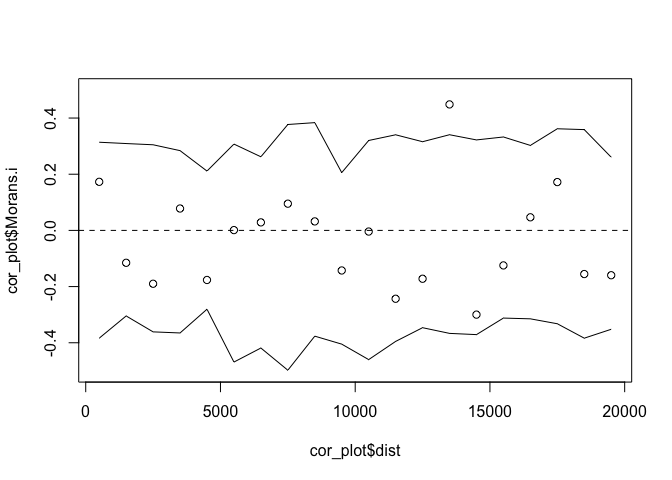
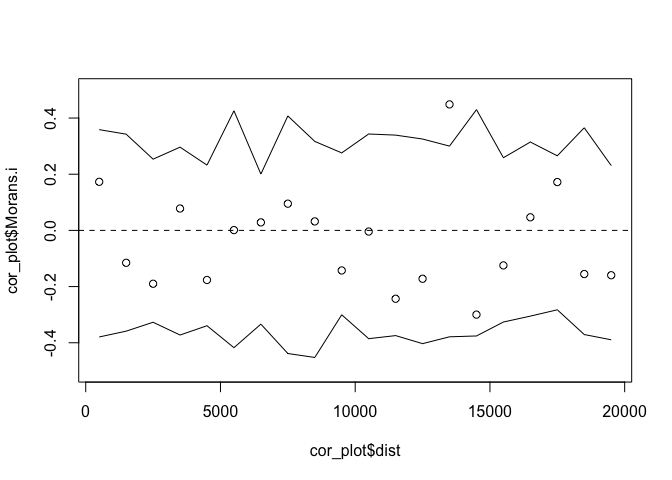
updated figures and model comparision

diff --git a/tick_abundance.md b/tick_abundance.md
@@ -1144,6 +1144,38 @@ stargazer(nb.glm12, nb.glm12.screen, type = "text",
     ## ==================================================
     ## Note:                  *p<0.1; **p<0.05; ***p<0.01
 
+``` r
+stargazer(nb.glm0.screen, nb.glm2.screen, nb.glm11.screen, nb.glm12.screen, type = "text",
+          intercept.bottom = FALSE, 
+          single.row=FALSE,     
+          notes.append = FALSE, 
+          header=FALSE)
+```
+
+    ## 
+    ## ===================================================================================
+    ##                                          Dependent variable:                       
+    ##                   -----------------------------------------------------------------
+    ##                                                 total                              
+    ##                         (1)              (2)              (3)             (4)      
+    ## -----------------------------------------------------------------------------------
+    ## Constant              4.355***         2.575***        2.598***        1.868***    
+    ##                       (0.439)          (0.524)          (0.278)         (0.315)    
+    ##                                                                                    
+    ## Field_TypeNatural                      2.386***                        1.240***    
+    ##                                        (0.735)                          (0.413)    
+    ##                                                                                    
+    ## PC1_500m                                               1.100***        1.003***    
+    ##                                                         (0.158)         (0.131)    
+    ##                                                                                    
+    ## -----------------------------------------------------------------------------------
+    ## Observations             16               16              16              16       
+    ## Log Likelihood        -78.218          -74.603          -67.348         -64.324    
+    ## theta             0.325*** (0.102) 0.472*** (0.157) 1.143** (0.447) 1.882** (0.828)
+    ## Akaike Inf. Crit.     158.437          153.206          138.696         134.648    
+    ## ===================================================================================
+    ## Note:                                                   *p<0.1; **p<0.05; ***p<0.01
+
 pseudo r-squared of screened model
 
 ``` r
@@ -1165,7 +1197,7 @@ par(mfrow=c(2,2), mar=c(4,4,2,1))
 plot(nb.glm12.screen)
 ```
 
-![](tick_abundance_files/figure-gfm/unnamed-chunk-34-1.png)<!-- --> the
+![](tick_abundance_files/figure-gfm/unnamed-chunk-35-1.png)<!-- --> the
 screened model looks good!
 
 ### plot the top model for *Amblyomma americanum* (screened dataset)
@@ -1208,7 +1240,7 @@ grid.arrange(plot, plot.log, ncol = 2)
 
     ## Warning: Transformation introduced infinite values in continuous y-axis
 
-![](tick_abundance_files/figure-gfm/unnamed-chunk-35-1.png)<!-- -->
+![](tick_abundance_files/figure-gfm/unnamed-chunk-36-1.png)<!-- -->
 
 ### create a final plot for *A.americanum* (screened data)
 
@@ -1291,13 +1323,15 @@ plot it - FIGURE FOR PUBLICATIONS
 ``` r
 mycol <- viridisLite::viridis(3)
 
-aa.plt <- ggplot(aa_screen, aes(x = PC1_500m, y = total)) +
-  geom_point(aes(color=Field_Type), size = 4) + 
-  scale_color_manual(values = mycol, name = "Habitat Type", labels = c("manicured", "natural")) +
+aa.plt <- ggplot(aa_screen, aes(x = PC1_500m, y = total, group = Field_Type)) +
+  geom_point(aes(fill=Field_Type), cex = 4, alpha = 0.7, 
+             color = "black", pch = 21) + 
+  scale_fill_manual(values = mycol, name = "Habitat Type", labels = c("manicured", "natural")) +
   geom_line(data = ndata, size =2, aes(color=Field_Type)) + 
   geom_ribbon(data = ndata,
-                  aes(ymin = right_lwr, ymax = right_upr, color=Field_Type),
-                  alpha = 0.1) + 
+                  aes(ymin = right_lwr, ymax = right_upr, fill=Field_Type),
+                  alpha = 0.2) +
+  scale_color_manual(values = mycol, name = "Habitat Type", labels = c("manicured", "natural")) +
   theme_bw() +
   theme(panel.grid.major=element_blank(),
                     panel.grid.minor=element_blank(),
@@ -1306,16 +1340,20 @@ aa.plt <- ggplot(aa_screen, aes(x = PC1_500m, y = total)) +
   ylab("A. americanum abundance") +
   xlab("Development Gradient")
 
+#aa.plt
+
 #remove the two sites with zeros so that they do not make the plot look funny on the log axis 
 aa_screen2 <- aa_screen[-c(1,2),]
 
-aa.plt.log <- ggplot(aa_screen2, aes(x = PC1_500m, y = total)) +
-  geom_point(aes(color=Field_Type), size = 4) +
-  scale_color_manual(values = mycol) + 
+aa.plt.log <- ggplot(aa_screen2, aes(x = PC1_500m, y = total, group = Field_Type)) +
+  geom_point(aes(fill=Field_Type), cex = 4, alpha = 0.7, 
+             color = "black", pch = 21) +
+  scale_fill_manual(values = mycol, name = "Habitat Type", labels = c("manicured", "natural")) + 
   geom_line(data = ndata, size =2, aes(color=Field_Type)) + 
   geom_ribbon(data = ndata,
-                  aes(ymin = right_lwr, ymax = right_upr, color=Field_Type),
-                  alpha = 0.1)+ 
+                  aes(ymin = right_lwr, ymax = right_upr, fill=Field_Type),
+                  alpha = 0.2)+ 
+    scale_color_manual(values = mycol, name = "Habitat Type", labels = c("manicured", "natural")) +
   theme_bw() +
   theme(legend.position = "none") +
   theme(panel.grid.major=element_blank(),
@@ -1327,7 +1365,7 @@ aa.plt.log <- ggplot(aa_screen2, aes(x = PC1_500m, y = total)) +
 grid.arrange(aa.plt, aa.plt.log, ncol = 2)
 ```
 
-![](tick_abundance_files/figure-gfm/unnamed-chunk-37-1.png)<!-- -->
+![](tick_abundance_files/figure-gfm/A_americanum_fig-1.png)<!-- -->
 
 # Part 5: Landscape analyses of *Ixodes scapularis*
 
@@ -1745,9 +1783,9 @@ round(head(cor_plot ,3),2)
 ```
 
     ##   dist Morans.i null.lcl null.ucl
-    ## 1  500     0.17    -0.38     0.31
-    ## 2 1500    -0.12    -0.30     0.31
-    ## 3 2500    -0.19    -0.36     0.30
+    ## 1  500     0.17    -0.38     0.36
+    ## 2 1500    -0.12    -0.36     0.34
+    ## 3 2500    -0.19    -0.33     0.25
 
 ``` r
 #plot correlogram
@@ -1929,6 +1967,38 @@ stargazer(nb.glm8.reduced, nb.glm9.reduced, type = "text",
     ## =================================================
     ## Note:                 *p<0.1; **p<0.05; ***p<0.01
 
+``` r
+stargazer(nb.glm0.reduced, nb.glm1.reduced, nb.glm8.reduced, nb.glm9.reduced, type = "text",
+          intercept.bottom = FALSE, 
+          single.row=FALSE,     
+          notes.append = FALSE, 
+          header=FALSE)
+```
+
+    ## 
+    ## =================================================================================
+    ##                                         Dependent variable:                      
+    ##                   ---------------------------------------------------------------
+    ##                                                total                             
+    ##                         (1)             (2)             (3)             (4)      
+    ## ---------------------------------------------------------------------------------
+    ## Constant             1.633***          0.000           0.361          -0.765     
+    ##                       (0.469)         (0.646)         (0.483)         (0.628)    
+    ##                                                                                  
+    ## Field_TypeNatural                    2.172***                         1.721**    
+    ##                                       (0.831)                         (0.716)    
+    ##                                                                                  
+    ## PC1_500m                                             0.908***        0.825***    
+    ##                                                       (0.284)         (0.248)    
+    ##                                                                                  
+    ## ---------------------------------------------------------------------------------
+    ## Observations            17              17              17              17       
+    ## Log Likelihood        -41.750         -39.230         -37.565         -35.024    
+    ## theta             0.282** (0.115) 0.427** (0.192) 0.570** (0.272) 0.846** (0.429)
+    ## Akaike Inf. Crit.     85.500          82.459          79.131          76.048     
+    ## =================================================================================
+    ## Note:                                                 *p<0.1; **p<0.05; ***p<0.01
+
 ### plot model residuals for top model (screened datset)
 
 ``` r
@@ -1936,7 +2006,7 @@ par(mfrow=c(2,2), mar=c(4,4,2,1))
 plot(nb.glm9.reduced)
 ```
 
-![](tick_abundance_files/figure-gfm/unnamed-chunk-54-1.png)<!-- --> the
+![](tick_abundance_files/figure-gfm/unnamed-chunk-55-1.png)<!-- --> the
 reduced model for PC1_500m is looking pretty good
 
 ### test for spatial autocorrelation (screened dataset)
@@ -2031,9 +2101,9 @@ round(head(cor_plot ,3),2)
 ```
 
     ##   dist Morans.i null.lcl null.ucl
-    ## 1  500     0.07    -0.32     0.27
-    ## 2 1500    -0.14    -0.29     0.32
-    ## 3 2500    -0.06    -0.30     0.32
+    ## 1  500     0.07    -0.34     0.29
+    ## 2 1500    -0.14    -0.31     0.26
+    ## 3 2500    -0.06    -0.35     0.26
 
 ``` r
 #plot correlogram
@@ -2043,7 +2113,7 @@ lines(cor_plot$dist, cor_plot$null.lcl)
 lines(cor_plot$dist, cor_plot$null.ucl)
 ```
 
-![](tick_abundance_files/figure-gfm/unnamed-chunk-56-1.png)<!-- -->
+![](tick_abundance_files/figure-gfm/unnamed-chunk-57-1.png)<!-- -->
 
 only one point barely falls outside the 95% CI so i believe we are good
 to go
@@ -2176,13 +2246,15 @@ plot it
 ``` r
 mycol <- viridisLite::viridis(3)
 
-is.plt <- ggplot(is_screen, aes(x = PC1_500m, y = total)) +
-  geom_point(aes(color=Field_Type), size = 4) +
-  scale_color_manual(values = mycol, name = "Habitat Type", labels = c("manicured", "natural")) +
+is.plt <- ggplot(is_screen, aes(x = PC1_500m, y = total, group = Field_Type)) +
+  geom_point(aes(fill=Field_Type), cex = 4, alpha = 0.7, 
+             color = "black", pch = 21) +
+  scale_fill_manual(values = mycol, name = "Habitat Type", labels = c("manicured", "natural")) +
   geom_line(data = ndata, size =2, aes(color=Field_Type)) + 
   geom_ribbon(data = ndata,
-                  aes(ymin = right_lwr, ymax = right_upr, color=Field_Type),
-                  alpha = 0.1)+ 
+                  aes(ymin = right_lwr, ymax = right_upr, fill=Field_Type),
+                  alpha = 0.2)+ 
+  scale_color_manual(values = mycol, name = "Habitat Type", labels = c("manicured", "natural")) +
   theme_bw() +
   theme(legend.position = "none") +
   theme(panel.grid.major=element_blank(),
@@ -2193,13 +2265,15 @@ is.plt <- ggplot(is_screen, aes(x = PC1_500m, y = total)) +
 
 is_screen2 <- is_screen[-c(1,3,5,6,7,8,11),]
 
-is.plt.log <- ggplot(is_screen2, aes(x = PC1_500m, y = total)) +
-  geom_point(aes(color=Field_Type), size = 4) +
-  scale_color_manual(values = mycol, name = "Habitat Type", labels = c("manicured", "natural")) +
+is.plt.log <- ggplot(is_screen2, aes(x = PC1_500m, y = total, group = Field_Type)) +
+  geom_point(aes(fill=Field_Type), cex = 4, alpha = 0.7, 
+             color = "black", pch = 21) +
+  scale_fill_manual(values = mycol, name = "Habitat Type", labels = c("manicured", "natural")) +
   geom_line(data = ndata, size =2, aes(color=Field_Type)) + 
   geom_ribbon(data = ndata,
-                  aes(ymin = right_lwr, ymax = right_upr, color=Field_Type),
+                  aes(ymin = right_lwr, ymax = right_upr, fill=Field_Type),
                   alpha = 0.1)+ 
+  scale_color_manual(values = mycol, name = "Habitat Type", labels = c("manicured", "natural")) +
   theme_bw() +
   theme(legend.position = "none") +
   theme(panel.grid.major=element_blank(),
@@ -2212,15 +2286,13 @@ is.plt.log <- ggplot(is_screen2, aes(x = PC1_500m, y = total)) +
 grid.arrange(is.plt, is.plt.log, ncol = 2)
 ```
 
-![](tick_abundance_files/figure-gfm/unnamed-chunk-60-1.png)<!-- -->
+![](tick_abundance_files/figure-gfm/Iscap_fig-1.png)<!-- -->
 
 put all the plots together…
 
 ``` r
-grid.arrange(aa.plt, aa.plt.log, is.plt, is.plt.log, ncol = 2)
+#grid.arrange(aa.plt, aa.plt.log, is.plt, is.plt.log, ncol = 2)
 ```
-
-![](tick_abundance_files/figure-gfm/unnamed-chunk-61-1.png)<!-- -->
 
 ``` r
 library(cowplot)
@@ -2235,10 +2307,8 @@ final_plot <- ggdraw()+
 final_plot
 ```
 
-![](tick_abundance_files/figure-gfm/unnamed-chunk-62-1.png)<!-- -->
+![](tick_abundance_files/figure-gfm/abund_fig-1.png)<!-- -->
 
 ``` r
-ggsave("Figures/TickAbundanceModels.png", dpi = 300)
+#ggsave("Figures/TickAbundanceModels.png", dpi = 300)
 ```
-
-    ## Saving 7 x 5 in image
